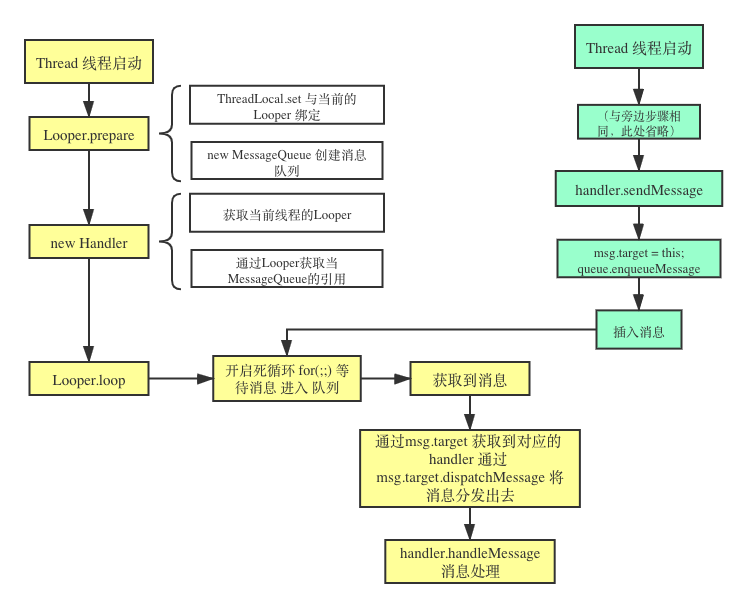
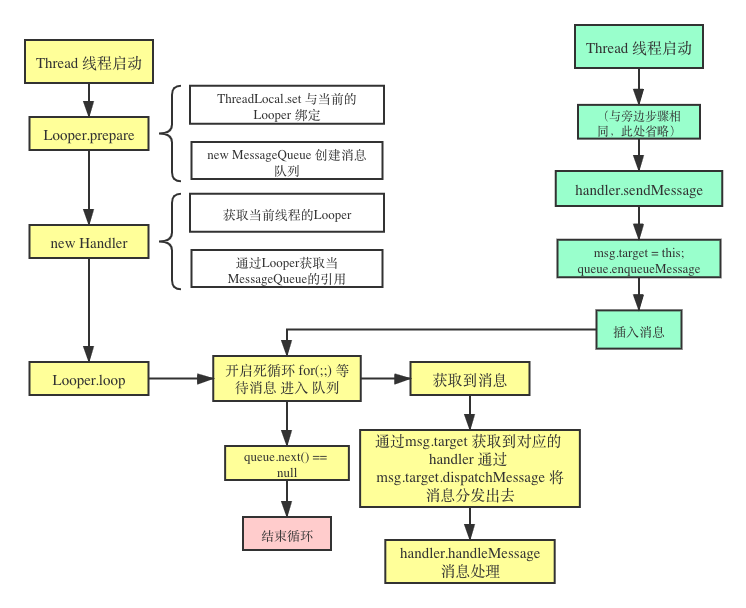
update handler

Changed region(s): [[0.2775, 0.6875, 0.4933, 0.9062]]

diff --git a/_posts/2020-1-12-Handler机制.md b/_posts/2020-1-12-Handler机制.md
@@ -314,6 +314,8 @@ public static void loop() {
 
 从上面的代码部分可以观察到，在 `Looper.loop` 中是一个**死循环**，唯一跳出循环的条件的是 `msg == null` 的情况。当 `Looper.quit` 和 `Looper.quitSafely` 方法被调用时， `MessageQueue.quit` 方法会被调用，会导致 `MessageQueue.next` 的返回值为 `null`。如果没有新的消息发送过来，则 `MessageQueue.next` 就会一直阻塞。关于 `MessageQueue` 的源码，将会在接下来的部分进行分析。
 
+> 注：如果手动创建了 `Looper` ，那么在所有的事情完成以后应该调用 `quit` 方法来终止消息循环，否则子线程就会一直处于等待的状态，而如果退出 `Looper` 以后，这个线程就会立刻终止，因此建议不需要的时候终止 `quit`。
+
 循环中，最重要的部分也就是当有新消息到达时，`Looper` 就会通过 **`msg.target.dispatchMessage`** 进行处理。因为 `msg.target` 是一个 `Handler` 对象，是将消息与 `Handler` 进行绑定的一个参数。通过这样的方法，就可以成功地将代码逻辑切换到指定的线程中去执行了。
 
 ## Handler
@@ -617,3 +619,62 @@ Message next() {
 !["Handler全流程图"]({{site.url}}/assets/images/android/handler/Handler全流程图.png "Handler全流程图")
 
 # 主线程中的消息循环
+
+ `ActivityThread` 就是我们常说的主线程或UI线程，`ActivityThread` 的 `main` 方法是整个 APP 的入口，源码如下：
+
+```
+public static void main(String[] args) {
+    ...
+    Process.setArgV0("<pre-initialized>");
+
+    Looper.prepareMainLooper();
+
+    long startSeq = 0;
+    if (args != null) {
+        for (int i = args.length - 1; i >= 0; --i) {
+            if (args[i] != null && args[i].startsWith(PROC_START_SEQ_IDENT)) {
+                startSeq = Long.parseLong(
+                        args[i].substring(PROC_START_SEQ_IDENT.length()));
+            }
+        }
+    }
+    ActivityThread thread = new ActivityThread();
+    thread.attach(false, startSeq);
+
+    if (sMainThreadHandler == null) {
+        sMainThreadHandler = thread.getHandler();
+    }
+
+    if (false) {
+        Looper.myLooper().setMessageLogging(new
+                LogPrinter(Log.DEBUG, "ActivityThread"));
+    }
+    Trace.traceEnd(Trace.TRACE_TAG_ACTIVITY_MANAGER);
+    Looper.loop();
+
+    throw new RuntimeException("Main thread loop unexpectedly exited");
+}
+```
+
+在 `main` 方法中系统会通过 `Looper.prepareMainLooper` 来创建主线程的 `Looper`，代码入下：
+
+```
+public static void prepareMainLooper() {
+    prepare(false);
+    synchronized (Looper.class) {
+        if (sMainLooper != null) {
+            throw new IllegalStateException("The main Looper has already been prepared.");
+        }
+        sMainLooper = myLooper();
+    }
+}
+```
+
+同样是创建主线程的 `Looper` 以及 `MessageQueue`。 `main` 函数后面也是调用 `Looper.loop` 来启动主线的消息循环，只是主线程的 `Looper` 不会调用 `quit`，因此循环不会被结束。
+
+<br/>
+
+> 延伸知识点：
+[Android中为什么主线程不会因为Looper.loop()里的死循环卡死？](https://www.zhihu.com/question/34652589/answer/90344494)
+
+
